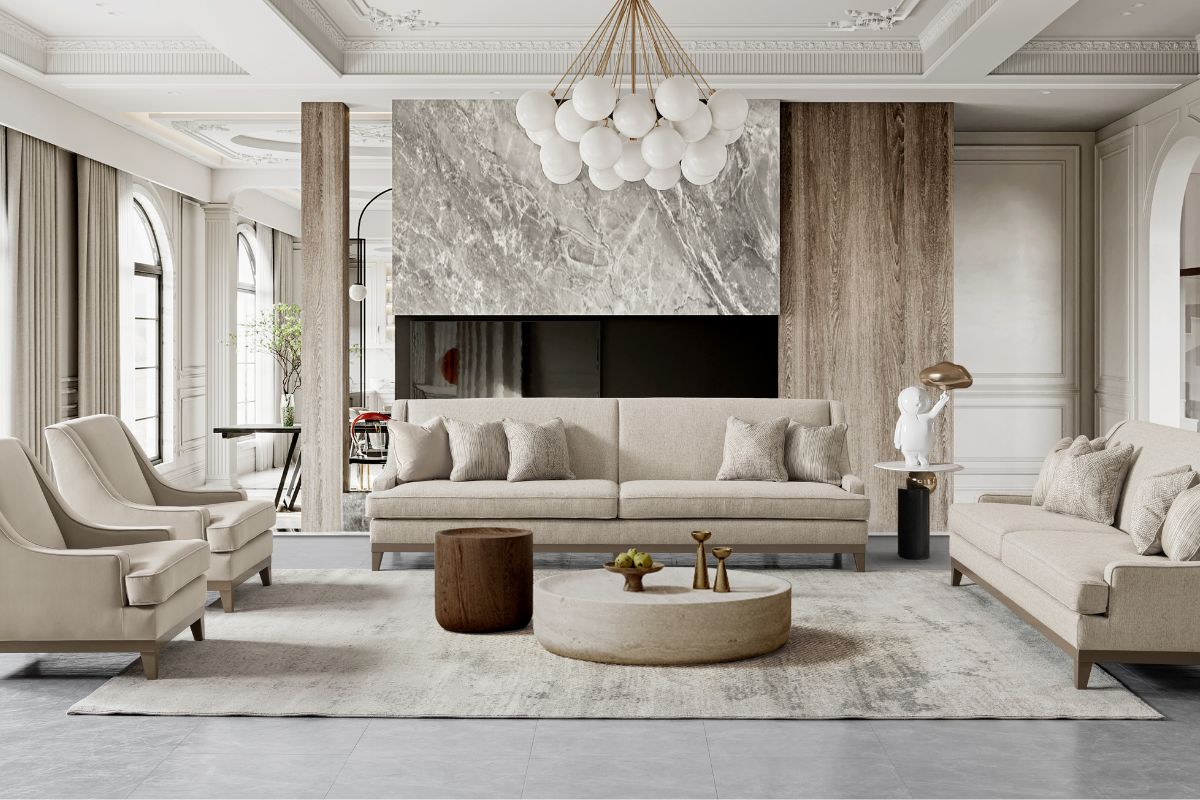
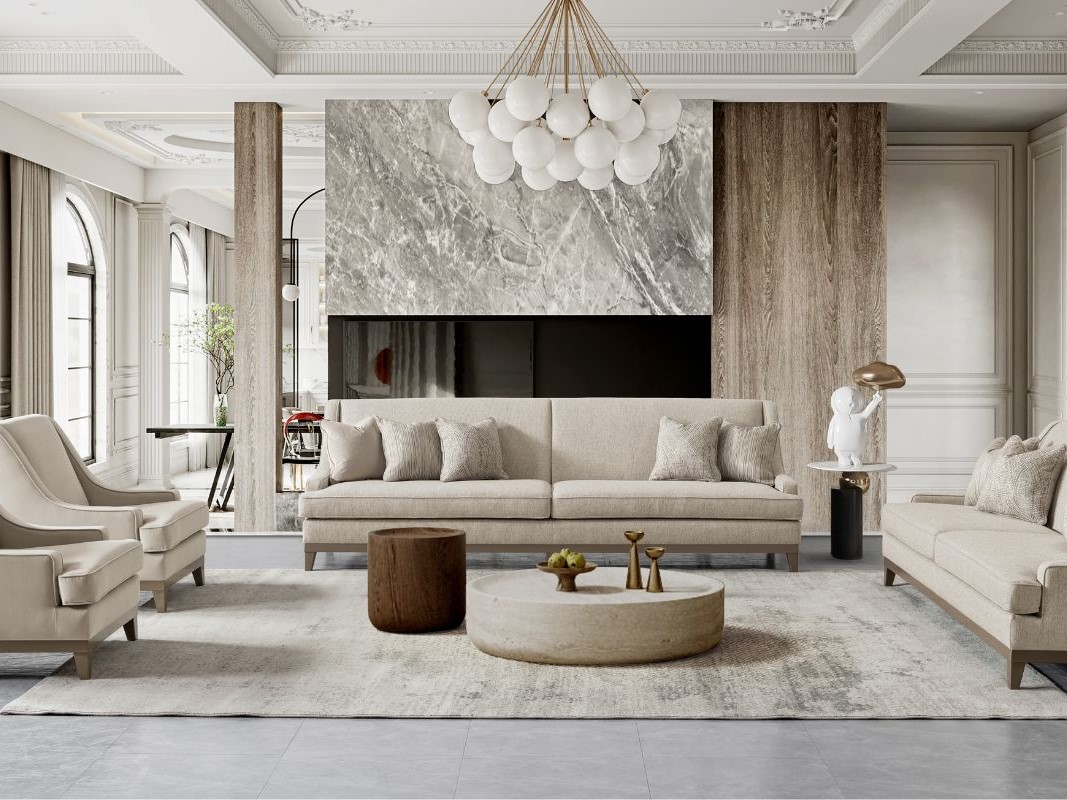
cambios

diff --git a/public/web/assets/css/owl.css b/public/web/assets/css/owl.css
@@ -54,13 +54,16 @@
     display: none; }
   .owl-carousel .owl-nav .owl-prev,
   .owl-carousel .owl-nav .owl-next,
-  .owl-carousel .owl-dot {
+   {
     cursor: pointer;
     -webkit-user-select: none;
     -khtml-user-select: none;
     -moz-user-select: none;
     -ms-user-select: none;
     user-select: none; }
+    .owl-carousel .owl-dot{
+      display: none;
+    }
   .owl-carousel .owl-nav button.owl-prev,
   .owl-carousel .owl-nav button.owl-next,
   .owl-carousel button.owl-dot {

diff --git a/resources/views/sistema/imagen-nuevo.blade.php b/resources/views/sistema/imagen-nuevo.blade.php
@@ -15,7 +15,6 @@ Nuevo imagen
 <ol class="breadcrumb">
       <li class="breadcrumb-item"><a href="/admin/home">Inicio</a></li>
       <li class="breadcrumb-item"><a href="/admin/imagenes">propiedades</a></li>
-      <li class="breadcrumb-item active">Modificar</li>
 </ol>
 <ol class="toolbar">
       <li class="btn-item"><a title="Nuevo" href="/admin/imagen/nuevo" class="fa fa-plus-circle" aria-hidden="true"><span>Nuevo</span></a></li>
@@ -25,6 +24,7 @@ Nuevo imagen
       <li class="btn-item"><a title="Guardar" href="#" class="fa fa-trash-o" aria-hidden="true" onclick="javascript: $('#mdlEliminar').modal('toggle');"><span>Eliminar</span></a></li>
       @endif
       <li class="btn-item"><a title="Salir" href="#" class="fa fa-arrow-circle-o-left" aria-hidden="true" onclick="javascript: $('#modalSalir').modal('toggle');"><span>Salir</span></a></li>
+      <li class="btn-item"><a title="Recargar" href="#" class="fa fa-refresh" aria-hidden="true" onclick='window.location.replace("/admin/imagen/nuevo");'><span>Recargar</span></a></li>
 </ol>
 <script>
       function fsalir() {
@@ -67,7 +67,7 @@ if (isset($msg)) {
                   
                   </div>
                   <div class="form-group col-12">
-                        <label for="imagen">Imágen: ( 4x3 ) *</label>
+                        <label for="imagen">Imágen: <span style="color: red;">( 4x3 )</span> *</label>
                         <input type="file" class="form-control-file" id="txtImagenes" name="txtImagenes">
                   </div>
                   <div class="form-group col-12">

diff --git a/resources/views/sistema/imagen-listar.blade.php b/resources/views/sistema/imagen-listar.blade.php
@@ -13,7 +13,7 @@
 </ol>
 <ol class="toolbar">
     <li class="btn-item"><a title="Nuevo" href="/admin/imagen/nuevo" class="fa fa-plus-circle" aria-hidden="true"><span>Nuevo</span></a></li>
-    <li class="btn-item"><a title="Recargar" href="#" class="fa fa-refresh" aria-hidden="true" onclick='window.location.replace("/admin/imagen");'><span>Recargar</span></a></li>
+    <li class="btn-item"><a title="Recargar" href="#" class="fa fa-refresh" aria-hidden="true" onclick='window.location.replace("/admin/imagenes");'><span>Recargar</span></a></li>
 </ol>
 @endsection
 @section('contenido')
